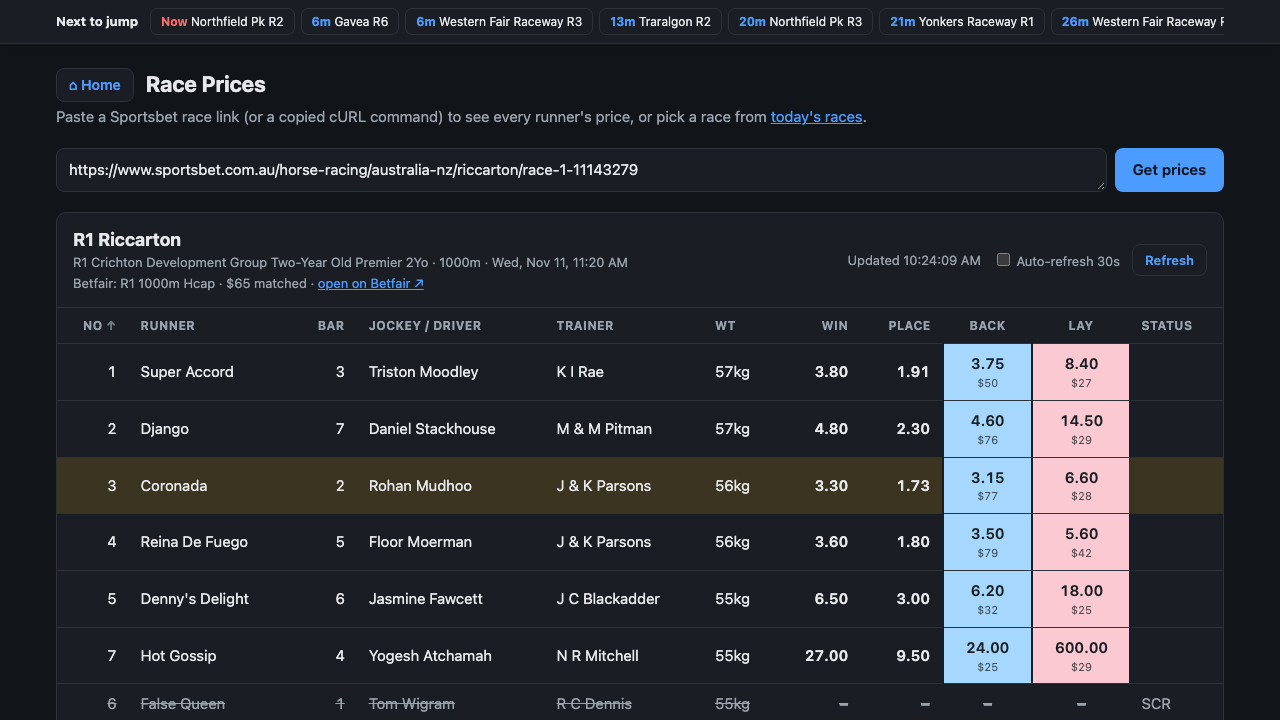
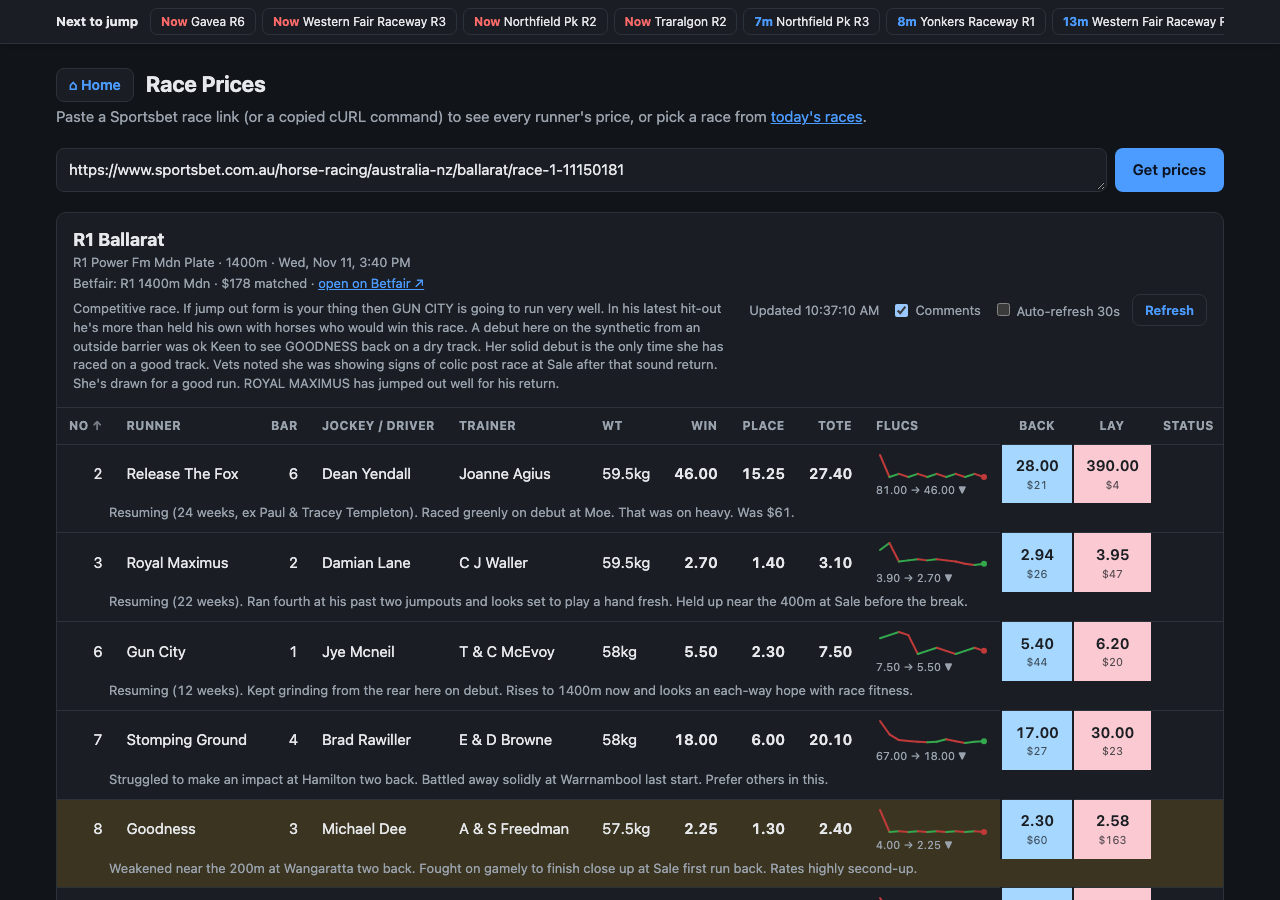
Added comments from sportsbet site and added a fluctuation graph for runners.

diff --git a/templates/race.html b/templates/race.html
@@ -44,9 +44,11 @@
         <h2 id="race-title"></h2>
         <div class="meta" id="race-meta"></div>
         <div class="bf-status" id="bf-status" hidden></div>
+        <p class="race-comment" id="race-comment" hidden></p>
       </div>
       <div class="controls">
         <span id="updated"></span>
+        <label class="toggle"><input type="checkbox" id="comments" checked> Comments</label>
         <label><input type="checkbox" id="auto"> Auto-refresh 30s</label>
         <button class="secondary" id="refresh" type="button">Refresh</button>
       </div>
@@ -59,8 +61,10 @@
     </div>
     <div class="legend">Win / Place = Sportsbet fixed odds · Tote = tote win price ·
       Back / Lay = best Betfair Exchange price with $ available · BSP = Betfair starting price ·
-      <span class="move-up">▲</span> drifting <span class="move-down">▼</span> firming since last refresh ·
-      <span id="legend-fav">highlighted row = favourite</span></div>
+      <span class="move-up">▲</span> drifting <span class="move-down">▼</span> shortening since last refresh ·
+      <span id="legend-fav">highlighted row = favourite</span> ·
+      Flucs = Sportsbet fixed-win price history, open → now
+      (<span class="move-up">green</span> = drifting / price up, <span class="move-down">red</span> = shortening / price down)</div>
   </section>
 </main>
 
@@ -75,6 +79,7 @@ const COLUMNS = [
   { key: "Win", label: "Win", num: true, price: true },
   { key: "Place", label: "Place", num: true, price: true },
   { key: "Tote", label: "Tote", num: true, price: true },
+  { key: "Flucs", label: "Flucs", spark: true, nosort: true },
   { key: "Back", label: "Back", price: true, bf: "back", size: "BackSize" },
   { key: "Lay", label: "Lay", price: true, bf: "lay", size: "LaySize" },
   { key: "BSP", label: "BSP", num: true, price: true },
@@ -154,6 +159,59 @@ let loading = false;
 
 function fmtPrice(v) { return v == null ? "–" : Number(v).toFixed(2); }
 
+// Sparkline of a runner's Sportsbet price history (oldest → now).
+// Higher price is drawn higher. Each step is coloured by direction:
+// green = drifting (price went up), red = shortening (price went down).
+// Returns [svg, label]; the label repeats "open → now" in text so the
+// direction never relies on colour alone.
+const SVG_NS = "http://www.w3.org/2000/svg";
+function svgEl(name, attrs) {
+  const el = document.createElementNS(SVG_NS, name);
+  for (const [k, v] of Object.entries(attrs)) el.setAttribute(k, v);
+  return el;
+}
+function direction(from, to) { return to > from ? "drift" : to < from ? "firm" : "flat"; }
+
+function sparkline(prices) {
+  const W = 112, H = 30, PAD = 4;
+  const lo = Math.min(...prices), hi = Math.max(...prices);
+  const x = (i) => PAD + i * (W - 2 * PAD) / (prices.length - 1);
+  const y = (p) => hi === lo ? H / 2 : PAD + (hi - p) / (hi - lo) * (H - 2 * PAD);
+
+  const svg = svgEl("svg", { class: "spark", width: W, height: H, viewBox: `0 0 ${W} ${H}`, role: "img",
+    "aria-label": "Price history: " + prices.map(p => fmtPrice(p)).join(", ") });
+
+  // One line segment per move, so each can take its own colour.
+  for (let i = 1; i < prices.length; i++) {
+    svg.append(svgEl("line", { class: "seg " + direction(prices[i - 1], prices[i]),
+      x1: x(i - 1), y1: y(prices[i - 1]), x2: x(i), y2: y(prices[i]) }));
+  }
+  // Dot on the current price, coloured by the latest move.
+  const last = prices.length - 1;
+  svg.append(svgEl("circle", { class: "end " + direction(prices[last - 1], prices[last]),
+    cx: x(last), cy: y(prices[last]), r: 3 }));
+
+  // Invisible, larger hover targets with a tooltip for every point.
+  prices.forEach((p, i) => {
+    const hit = svgEl("circle", { class: "hit", cx: x(i), cy: y(p), r: 7 });
+    const label = i === 0 ? "Open" : i === last ? "Now" : `Move ${i}`;
+    const change = i === 0 ? "" :
+      p > prices[i - 1] ? ` (drifted from ${fmtPrice(prices[i - 1])})` :
+      p < prices[i - 1] ? ` (shortened from ${fmtPrice(prices[i - 1])})` : " (unchanged)";
+    const title = svgEl("title", {});
+    title.textContent = `${label}: ${fmtPrice(p)}${change}`;
+    hit.append(title);
+    svg.append(hit);
+  });
+
+  const text = document.createElement("span");
+  text.className = "spark-label";
+  const overall = direction(prices[0], prices[last]);
+  text.textContent = `${fmtPrice(prices[0])} → ${fmtPrice(prices[last])}` +
+    (overall === "drift" ? " ▲" : overall === "firm" ? " ▼" : "");
+  return [svg, text];
+}
+
 function showError(msg) {
   $("error").textContent = msg;
   $("error").hidden = !msg;
@@ -213,11 +271,17 @@ function render() {
   // Back/Lay only while Betfair has prices (a closed market has none).
   const hasBetfair = Boolean(bf.marketName) && runners.some(r => r.Back != null || r.Lay != null);
   const hasBsp = runners.some(r => r.BSP != null);
+  const hasFlucs = runners.some(r => (r.Flucs || []).length > 1);
   const cols = COLUMNS.filter(c =>
     (c.key !== "Tote" || hasTote) &&
     (!c.bf || hasBetfair) &&
     (c.key !== "BSP" || hasBsp) &&
+    (!c.spark || hasFlucs) &&
     (!c.optional || runners.some(r => r[c.key])));
+
+  const showComments = $("comments").checked;
+  $("race-comment").textContent = race.comment || "";
+  $("race-comment").hidden = !(showComments && race.comment);
 
   // Header
   const head = $("head");
@@ -226,6 +290,10 @@ function render() {
     th.textContent = c.label;
     if (c.num) th.className = "num";
     if (c.bf) th.className = "bf-head";
+    if (c.nosort) {
+      th.className = "nosort";
+      return th;
+    }
     if (sort.key === c.key) {
       const a = document.createElement("span");
       a.className = "arrow";
@@ -253,7 +321,7 @@ function render() {
   const favWin = active.length ? Math.min(...active.map(r => r.Win)) : null;
   const resulted = (current.results || []).length > 0;
 
-  $("body").replaceChildren(...rows.map(r => {
+  $("body").replaceChildren(...rows.flatMap(r => {
     const tr = document.createElement("tr");
     if (r.Status === "SCR") tr.className = "scr";
     else if (resulted ? r.Status === "1st" : (r.Win != null && r.Win === favWin)) {
@@ -265,7 +333,10 @@ function render() {
       const classes = [];
       if (c.num) classes.push("num");
       if (c.key === "Status") classes.push("status");
-      if (c.price) {
+      if (c.spark) {
+        classes.push("flucs");
+        if (r.Status !== "SCR" && (r.Flucs || []).length > 1) td.append(...sparkline(r.Flucs));
+      } else if (c.price) {
         classes.push("price");
         td.textContent = fmtPrice(r[c.key]);
         let sizeSpan = null;
@@ -294,7 +365,17 @@ function render() {
       td.className = classes.join(" ");
       tr.append(td);
     }
-    return tr;
+
+    // The runner's comment, in its own full-width row underneath.
+    if (!showComments || !r.Comment || r.Status === "SCR") return [tr];
+    tr.classList.add("has-comment");
+    const commentRow = document.createElement("tr");
+    commentRow.className = "comment-row";
+    const td = document.createElement("td");
+    td.colSpan = cols.length;
+    td.textContent = r.Comment;
+    commentRow.append(td);
+    return [tr, commentRow];
   }));
 
   $("legend-fav").textContent = resulted ? "highlighted row = winner" : "highlighted row = favourite";
@@ -332,6 +413,13 @@ $("source").addEventListener("keydown", (e) => {
   if (e.key === "Enter" && !e.shiftKey) { e.preventDefault(); $("form").requestSubmit(); }
 });
 $("refresh").onclick = () => current && load(current.source, { keepHistory: true });
+// Comments on/off, remembered in this browser (fine if storage is blocked).
+try { $("comments").checked = localStorage.getItem("race.comments") !== "off"; } catch {}
+$("comments").onchange = (e) => {
+  try { localStorage.setItem("race.comments", e.target.checked ? "on" : "off"); } catch {}
+  if (current) render();
+};
+
 $("auto").onchange = (e) => {
   clearInterval(timer);
   if (e.target.checked) timer = setInterval(() => current && load(current.source, { keepHistory: true }), 30000);

diff --git a/static/style.css b/static/style.css
@@ -3,12 +3,16 @@
   --bg: #f6f7f9; --card: #fff; --text: #1b1f24; --muted: #66707a;
   --border: #e1e4e8; --accent: #0b63ce; --accent-text: #fff;
   --up: #c62828; --down: #2e7d32; --fav: #fff7d6; --error-bg: #fdecea; --error: #b3261e;
+  /* Price moves: drifting (price up) green, shortening (price down) red.
+     Validated for colour-blind separation and contrast on --card. */
+  --drift: #007a00; --firm: #f06262;
 }
 @media (prefers-color-scheme: dark) {
   :root {
     --bg: #111418; --card: #1a1e24; --text: #e6e8eb; --muted: #9aa3ad;
     --border: #2c323a; --accent: #4c9bff; --accent-text: #0b1220;
     --up: #ff6b6b; --down: #5fd38a; --fav: #3a3420; --error-bg: #3b1d1b; --error: #ffb4ab;
+    --drift: #34a84c; --firm: #c03a3a;
   }
 }
 * { box-sizing: border-box; }
@@ -56,8 +60,8 @@ th.bf-head { text-align: center; }
 .bf-status.warn { color: var(--error); }
 tr.scr td { color: var(--muted); text-decoration: line-through; }
 tr.scr td.status { text-decoration: none; }
-.move-up { color: var(--up); }
-.move-down { color: var(--down); }
+.move-up { color: var(--drift); }   /* price went up: drifting */
+.move-down { color: var(--firm); }  /* price went down: shortening */
 .legend { padding: 10px 16px; font-size: 12px; color: var(--muted); }
 .badge { display: inline-block; margin-left: 6px; padding: 1px 8px; border-radius: 999px;
          font-size: 12px; font-weight: 600; vertical-align: middle;
@@ -130,3 +134,31 @@ a { color: var(--accent); }
 @media (max-width: 640px) {
   .jumpbar-label { font-size: 12px; }
 }
+
+/* ---- Runner comments ---- */
+tr.comment-row td { padding: 0 12px 10px 52px; border-bottom: 1px solid var(--border);
+                    white-space: normal; color: var(--muted); font-size: 13px; line-height: 1.45; }
+tr.has-comment td { border-bottom: 0; }
+tr.fav + tr.comment-row td, tr.win + tr.comment-row td { background: var(--fav); }
+.race-comment { margin: 6px 0 0; max-width: 80ch; color: var(--muted); font-size: 13px; line-height: 1.45; }
+.toggle { display: inline-flex; align-items: center; gap: 4px; }
+
+/* ---- Odds fluctuation sparkline ---- */
+td.flucs { padding-top: 6px; padding-bottom: 6px; }
+.spark { display: block; overflow: visible; }
+.spark .seg { fill: none; stroke-width: 2; stroke-linecap: round; }
+.spark .seg.drift { stroke: var(--drift); }
+.spark .seg.firm { stroke: var(--firm); }
+.spark .seg.flat { stroke: var(--muted); }
+.spark .pt { fill: var(--card); stroke: var(--muted); stroke-width: 1.5; }
+.spark .pt.drift { stroke: var(--drift); }
+.spark .pt.firm { stroke: var(--firm); }
+.spark .end { stroke: none; }
+.spark .end.drift { fill: var(--drift); }
+.spark .end.firm { fill: var(--firm); }
+.spark .end.flat { fill: var(--muted); }
+.spark .hit { fill: transparent; cursor: default; }
+.spark .pt, .spark .end, .spark .seg { pointer-events: none; }
+.spark .hit:hover { fill: color-mix(in srgb, var(--muted) 25%, transparent); }
+.spark-label { display: block; margin-top: 1px; color: var(--muted); font-size: 11px; font-weight: 400; }
+th.nosort { cursor: default; }

diff --git a/sportsbet_prices.py b/sportsbet_prices.py
@@ -156,6 +156,8 @@ def extract_runners(payload):
         else:
             status = ""
         weight = sel.get("weightGram")
+        stats = sel.get("statistics") or {}
+        win = None if scratched else _price(prices, "L", "winPrice")
         runners.append({
             "No": sel.get("runnerNumber", ""),
             "Runner": sel.get("name", ""),
@@ -163,13 +165,35 @@ def extract_runners(payload):
             "Jockey/Driver": sel.get("jockey") or sel.get("driver") or "",
             "Trainer": sel.get("trainer", ""),
             "Weight": f"{weight / 1000:g}kg" if weight else "",
-            "Win": None if scratched else _price(prices, "L", "winPrice"),
+            "Win": win,
             "Place": None if scratched else _price(prices, "L", "placePrice"),
             "Tote": None if scratched else _price(prices, "NTP", "winPrice"),
             "Status": status,
+            # Extra detail for the web app (left out of the terminal table).
+            "Comment": (stats.get("overview") or "").strip(),
+            "Open": _num(stats.get("openPrice")),
+            "Flucs": fluctuations(stats.get("openPrice"), sel.get("recentOddsFluctuations"), win),
         })
     runners.sort(key=lambda r: (r["Status"] == "SCR", r["No"] if r["No"] != "" else 999))
     return event, runners
+
+
+def fluctuations(open_price, recent, current):
+    """Sportsbet fixed-win price history, oldest first, ending at the current price.
+
+    Sportsbet's recentOddsFluctuations holds up to 10 earlier prices, *newest
+    first*, not including the current price; when it has fewer than 10 the last
+    one is the opening price. A longer history is cut to 10, so the opening price
+    is added at the start when it isn't already there.
+    """
+    series = [_num(p) for p in reversed(recent or [])]
+    series = [p for p in series if p is not None]
+    open_price = _num(open_price)
+    if open_price is not None and (not series or series[0] != open_price):
+        series.insert(0, open_price)
+    if current is not None and (not series or series[-1] != current):
+        series.append(current)
+    return series
 
 
 def ordinal(n):
@@ -349,9 +373,11 @@ def print_table(event, runners):
         title += f"  ({event['distance']}m)"
     print(title)
 
+    hidden = set(WEB_ONLY_COLS)
     if not any(r["Tote"] for r in runners):
-        runners = [{k: v for k, v in r.items() if k != "Tote"} for r in runners]
-    print_grid(runners, price_cols={"Win", "Place", "Tote"})
+        hidden.add("Tote")
+    print_grid([{k: v for k, v in r.items() if k not in hidden} for r in runners],
+               price_cols={"Win", "Place", "Tote"})
     print("Win/Place = Sportsbet fixed odds; Tote = tote win price; SCR = scratched")
 
     placings, exotics = extract_results(event)
@@ -363,11 +389,16 @@ def print_table(event, runners):
         print_grid(exotics, price_cols={"Dividend"})
 
 
+WEB_ONLY_COLS = ("Comment", "Open", "Flucs")  # too wide for the terminal table
+
+
 def write_csv(path, runners):
+    # Flucs is a list; write it as "4.5 > 3.1 > 2.7" so it fits in one cell.
+    rows = [{**r, "Flucs": " > ".join(f"{p:g}" for p in r["Flucs"])} for r in runners]
     with open(path, "w", newline="") as f:
-        writer = csv.DictWriter(f, fieldnames=list(runners[0].keys()))
+        writer = csv.DictWriter(f, fieldnames=list(rows[0].keys()))
         writer.writeheader()
-        writer.writerows(runners)
+        writer.writerows(rows)
 
 
 def main():

diff --git a/app.py b/app.py
@@ -145,6 +145,7 @@ def prices():
             "title": event.get("displayName") or event.get("name") or "Race",
             "name": event.get("name", ""),
             "distance": event.get("distance"),
+            "comment": (event.get("overview") or "").strip(),
             "start": datetime.fromtimestamp(start, timezone.utc).isoformat() if start else None,
         },
         runners=runners,

diff --git a/README.md b/README.md
@@ -46,7 +46,13 @@ key and login.
 - **Sportsbet** fixed Win/Place odds and the tote win price.
 - **Betfair** best Back (blue) and Lay (pink) prices with the $ available, the same as betfair.com.au shows (virtual/cross-matched prices included).
 - Click any column header to sort. The favourite is highlighted, and scratched runners are struck out and listed last.
-- Refresh button and optional 30-second auto-refresh. ▲/▼ markers show which prices moved since the last refresh.
+- **Flucs**: a small graph of each runner's Sportsbet price history from open to now.
+  Green steps mean the price drifted (went up) and red steps mean it shortened (went down).
+  Hover a point to see that price, and read "open → now" underneath.
+- **Comments**: Sportsbet's form comment under each runner, plus a race overview.
+  Turn them off with the **Comments** checkbox; the page remembers your choice.
+- Refresh button and optional 30-second auto-refresh. ▲/▼ markers show which prices moved
+  since the last refresh, using the same green/red colours as Flucs.
 
 **Resulted races**
 - A results table showing:
@@ -259,6 +265,10 @@ by name instead.
 ### Sportsbet field notes
 
 - **Price codes:** `L` = fixed odds (win/place), `NTP` = tote win.
+- **Price history:** `recentOddsFluctuations` holds up to 10 earlier prices, *newest first*,
+  without the current price. `statistics.openPrice` is the opening price.
+  The app builds the history in time order: open → the list reversed → the current price.
+- **Comments:** each runner's comment is `statistics.overview`, and the race comment is the race's `overview`.
 - **Before a race,** runner status `S` means scratched. **After it,** every runner
   becomes `S` ("settled"), and scratchings are marked with a result of `V` (void).
 - **Dividends** look like `SP:10.0`, `STAB/PL:7.5/1.9` (winner's tote win/place) and
